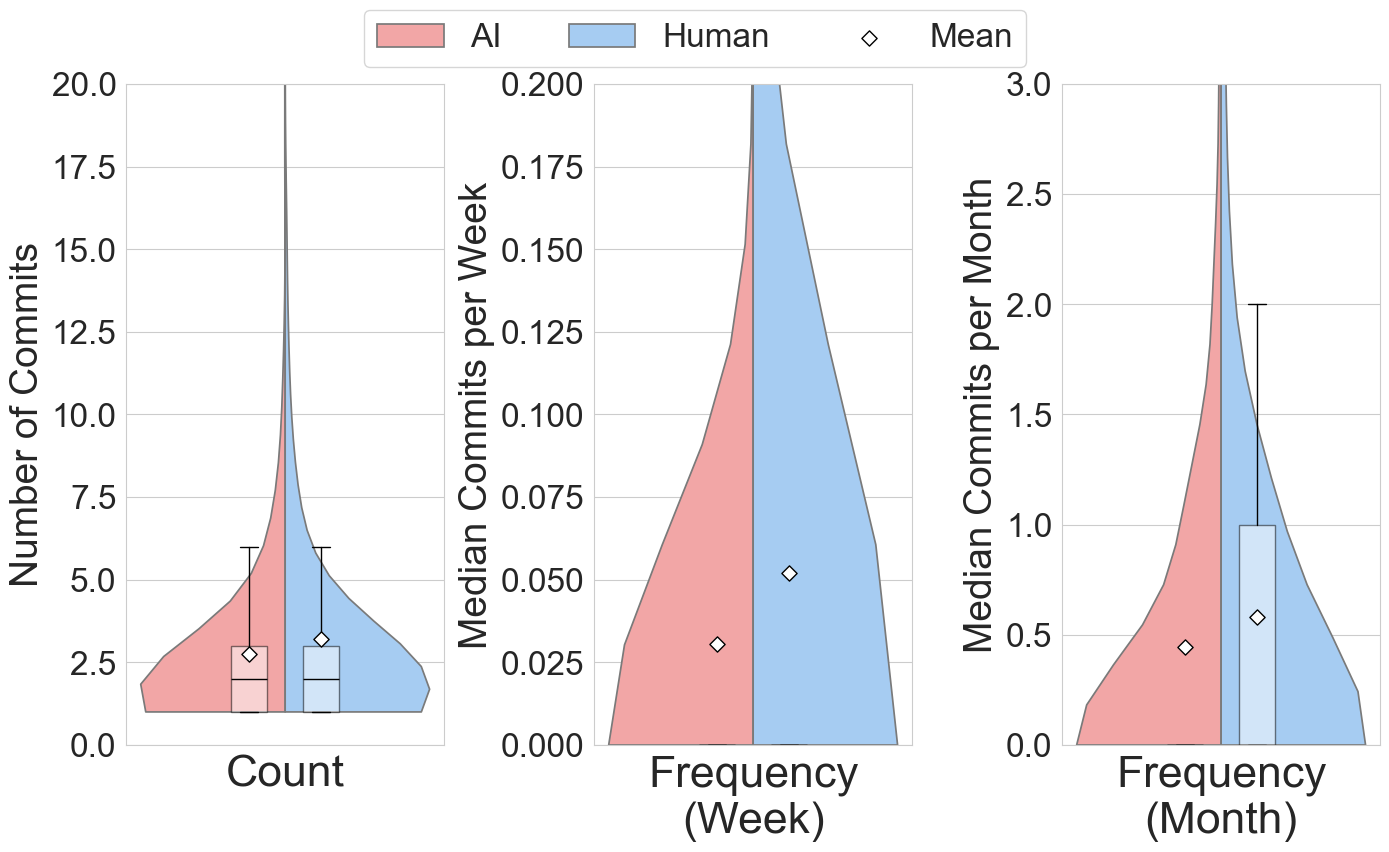
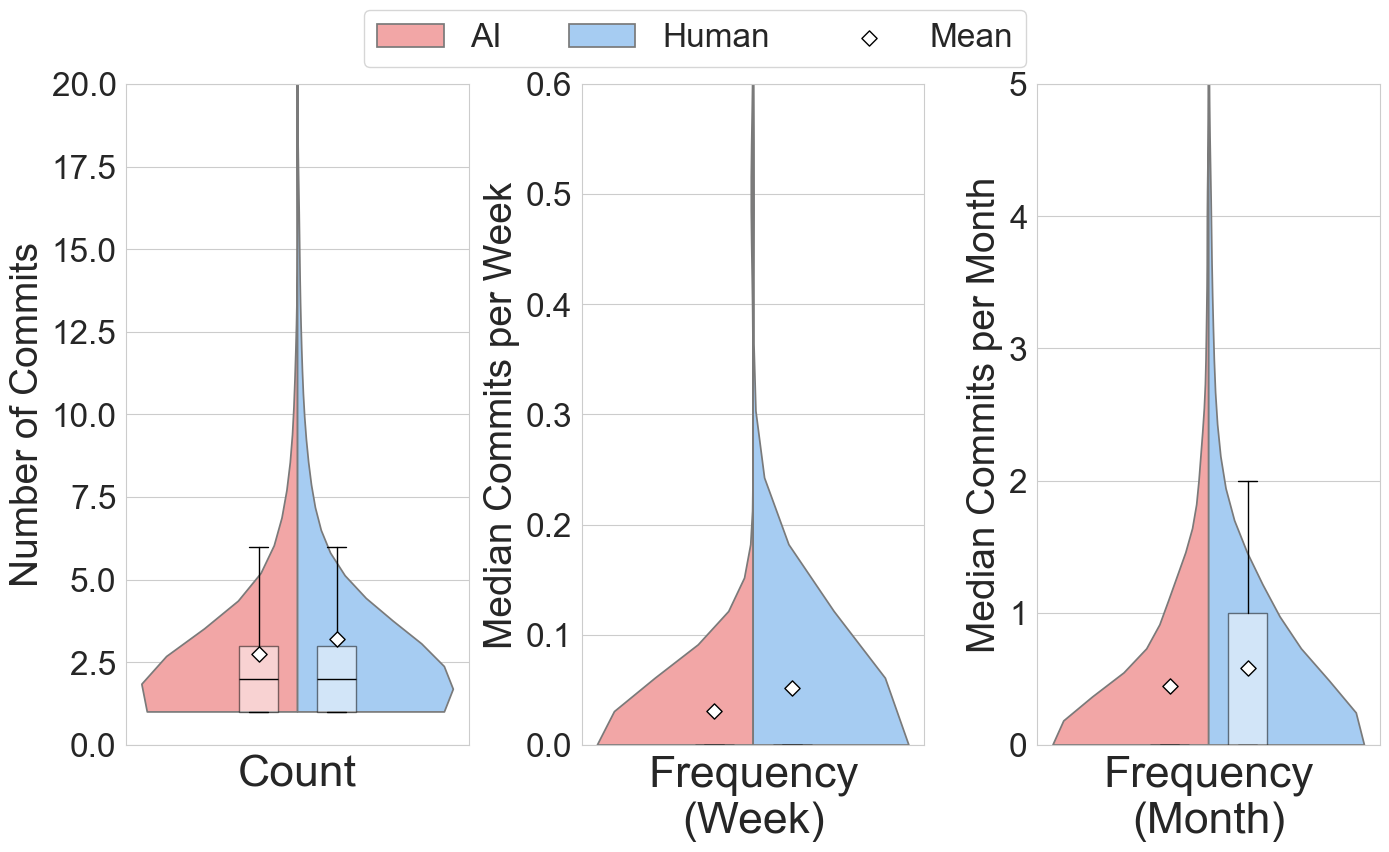
出力調整

diff --git a/src/RQ1_analyze.py b/src/RQ1_analyze.py
@@ -115,15 +115,15 @@ def run_analysis_process(df, output_dir, analysis_end_date, suffix="", is_limite
         results_text.append(f"  標準偏差: {stats['std']:.2f}")
         results_text.append("")
 
-    # バイオリンプロット作成 (コミット数)
-    create_violin_plot(
-        data_ai=ai_commit_counts,
-        data_human=human_commit_counts,
-        title="Counts",
-        ylabel="Number of Commits",
-        output_path=os.path.join(output_dir, f"RQ1_violinPlot_count{suffix}.png"),
-        ylim=20
-    )
+    # バイオリンプロット作成 (コミット数) - 単体出力はスキップ
+    # create_violin_plot(
+    #     data_ai=ai_commit_counts,
+    #     data_human=human_commit_counts,
+    #     title="Counts",
+    #     ylabel="Number of Commits",
+    #     output_path=os.path.join(output_dir, f"RQ1_violinPlot_count{suffix}.png"),
+    #     ylim=20
+    # )
 
     # ---------------------------------------------------------
     # 2. コミット頻度の分析 (1週間ごと & 1か月ごと)
@@ -195,30 +195,35 @@ def run_analysis_process(df, output_dir, analysis_end_date, suffix="", is_limite
         results_text.append(f"  標準偏差: {stats['std']:.4f}")
         results_text.append("")
 
-    # バイオリンプロット作成 (週間頻度)
-    create_violin_plot(
-        data_ai=pd.Series(ai_weekly_medians),
-        data_human=pd.Series(human_weekly_medians),
-        title="Frequency\n(Week)",
-        ylabel="Median Commits per Week",
-        output_path=os.path.join(output_dir, f"RQ1_violinPlot_frequency_weekly{suffix}.png"),
-        ylim=0.2
-    )
+    # バイオリンプロット作成 (週間頻度) - 単体出力はスキップ
+    # create_violin_plot(
+    #     data_ai=pd.Series(ai_weekly_medians),
+    #     data_human=pd.Series(human_weekly_medians),
+    #     title="Frequency\n(Week)",
+    #     ylabel="Median Commits per Week",
+    #     output_path=os.path.join(output_dir, f"RQ1_violinPlot_frequency_weekly{suffix}.png"),
+    #     ylim=0.2
+    # )
     
-    # バイオリンプロット作成 (月間頻度)
-    create_violin_plot(
-        data_ai=pd.Series(ai_monthly_medians),
-        data_human=pd.Series(human_monthly_medians),
-        title="Frequency\n(Month)",
-        ylabel="Median Commits per Month",
-        output_path=os.path.join(output_dir, f"RQ1_violinPlot_frequency_monthly{suffix}.png"),
-        ylim=3
-    )
+    # バイオリンプロット作成 (月間頻度) - 単体出力はスキップ
+    # create_violin_plot(
+    #     data_ai=pd.Series(ai_monthly_medians),
+    #     data_human=pd.Series(human_monthly_medians),
+    #     title="Frequency\n(Month)",
+    #     ylabel="Median Commits per Month",
+    #     output_path=os.path.join(output_dir, f"RQ1_violinPlot_frequency_monthly{suffix}.png"),
+    #     ylim=3
+    # )
 
     # ---------------------------------------------------------
     # 3. まとめたバイオリンプロットの作成
     # ---------------------------------------------------------
     print(f"[{suffix}] 結合グラフの作成中...")
+    
+    # ylimの設定
+    ylim_weekly = 0.6 if is_limited_period else 0.2
+    ylim_monthly = 5.0 if is_limited_period else 3.0
+    
     combined_data = [
         {
             'ai': ai_commit_counts,
@@ -232,14 +237,14 @@ def run_analysis_process(df, output_dir, analysis_end_date, suffix="", is_limite
             'human': pd.Series(human_weekly_medians),
             'xlabel': "Frequency\n(Week)",
             'ylabel': "Median Commits per Week",
-            'ylim': 0.2
+            'ylim': ylim_weekly
         },
         {
             'ai': pd.Series(ai_monthly_medians),
             'human': pd.Series(human_monthly_medians),
             'xlabel': "Frequency\n(Month)",
             'ylabel': "Median Commits per Month",
-            'ylim': 3
+            'ylim': ylim_monthly
         }
     ]
     
